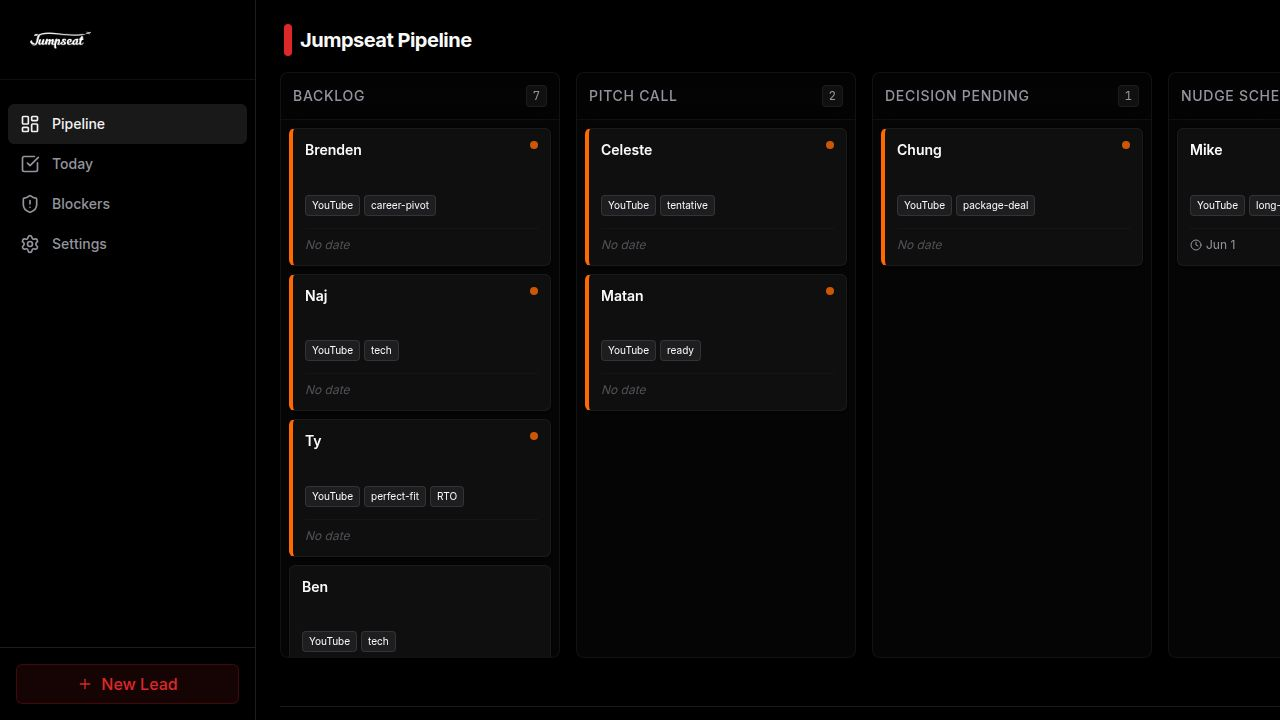
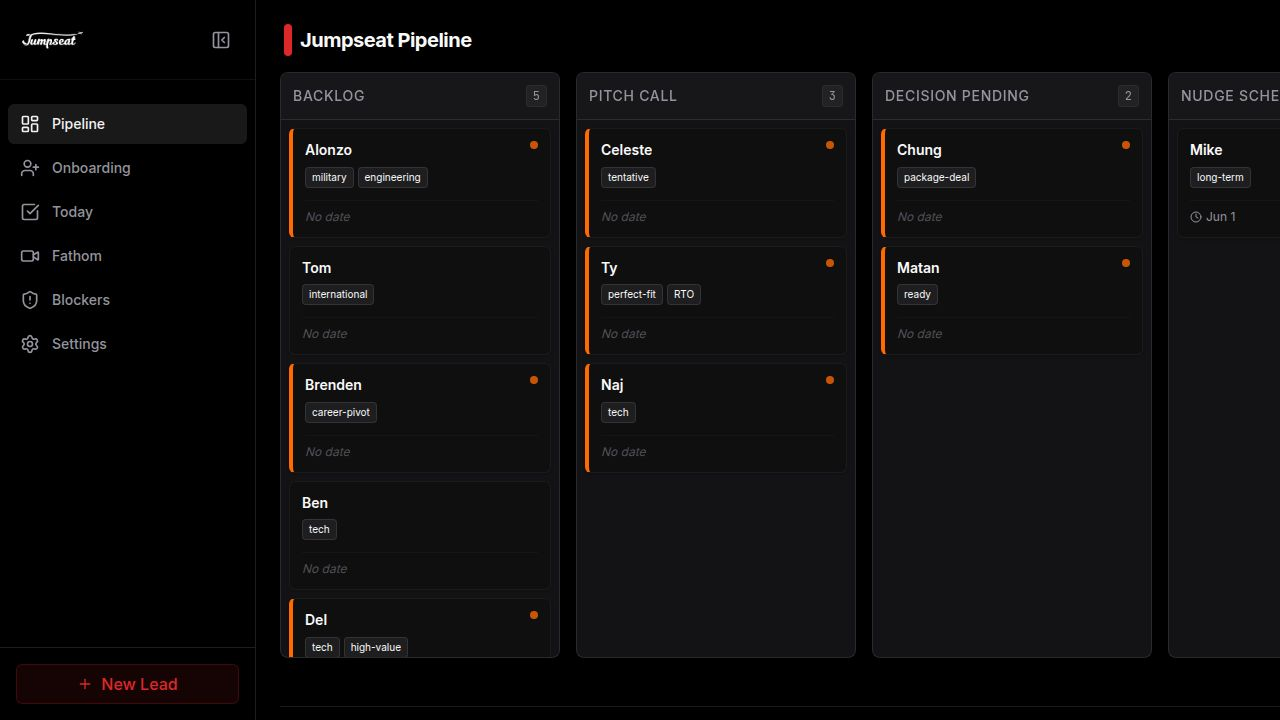
Improve Fathom integration by updating meeting retrieval and lead import logic
Update Fathom meeting retrieval to handle pagination and improve React Query invalidation for lead imports.

Replit-Commit-Author: Agent
Replit-Commit-Session-Id: 7dbfe593-8719-46f8-921e-f2176dc3040a
Replit-Commit-Checkpoint-Type: intermediate_checkpoint
Replit-Commit-Event-Id: c4dfb682-626e-4c56-9ef7-5a98d8bd0717
Replit-Commit-Screenshot-Url: https://storage.googleapis.com/screenshot-production-us-central1/5ed89963-c615-4f70-851d-41f2a588be62/7dbfe593-8719-46f8-921e-f2176dc3040a/vXzexNe
Replit-Helium-Checkpoint-Created: true

diff --git a/server/fathom.ts b/server/fathom.ts
@@ -112,21 +112,38 @@ export async function getMeeting(recordingId: number): Promise<FathomMeeting | n
   const params = new URLSearchParams();
   params.set('include_summary', 'true');
   params.set('include_action_items', 'true');
-  params.set('include_transcript', 'true');
+  params.set('calendar_invitees_domains_type', 'all');
   
-  const response = await fetch(`${FATHOM_API_BASE}/meetings?${params.toString()}`, {
-    headers: {
-      'X-Api-Key': apiKey,
-      'Content-Type': 'application/json',
-    },
-  });
+  let cursor: string | null = null;
   
-  if (!response.ok) {
-    throw new Error(`Fathom API error: ${response.status}`);
-  }
+  // Paginate through all meetings to find the one we want
+  do {
+    if (cursor) {
+      params.set('cursor', cursor);
+    }
+    
+    const response = await fetch(`${FATHOM_API_BASE}/meetings?${params.toString()}`, {
+      headers: {
+        'X-Api-Key': apiKey,
+        'Content-Type': 'application/json',
+      },
+    });
+    
+    if (!response.ok) {
+      throw new Error(`Fathom API error: ${response.status}`);
+    }
+    
+    const data: FathomMeetingsResponse = await response.json();
+    const meeting = data.items.find(m => m.recording_id === recordingId);
+    
+    if (meeting) {
+      return meeting;
+    }
+    
+    cursor = data.next_cursor;
+  } while (cursor);
   
-  const data: FathomMeetingsResponse = await response.json();
-  return data.items.find(m => m.recording_id === recordingId) || null;
+  return null;
 }
 
 export function extractLeadDataFromMeeting(meeting: FathomMeeting): {

diff --git a/client/src/pages/fathom.tsx b/client/src/pages/fathom.tsx
@@ -78,7 +78,7 @@ export default function FathomPage() {
     },
     onSuccess: (data, recordingId) => {
       setImportedIds(prev => new Set(Array.from(prev).concat(recordingId)));
-      queryClient.invalidateQueries({ queryKey: ["/api/leads"] });
+      queryClient.invalidateQueries({ queryKey: ["leads"] });
       toast.success(`Imported "${data.name}" as a new lead`);
     },
     onError: (error: Error) => {
